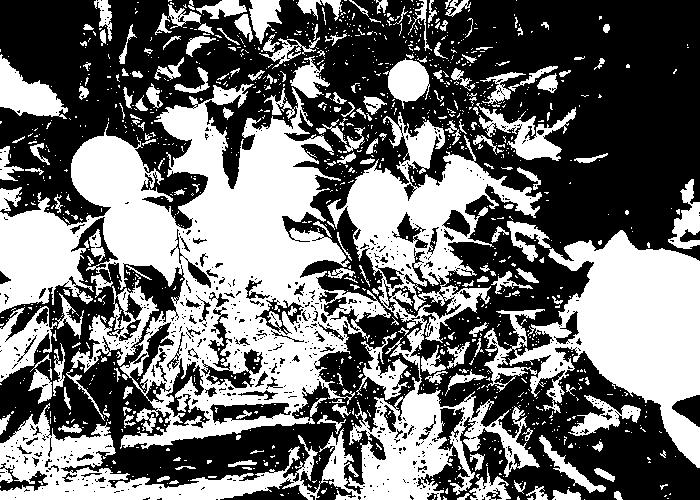
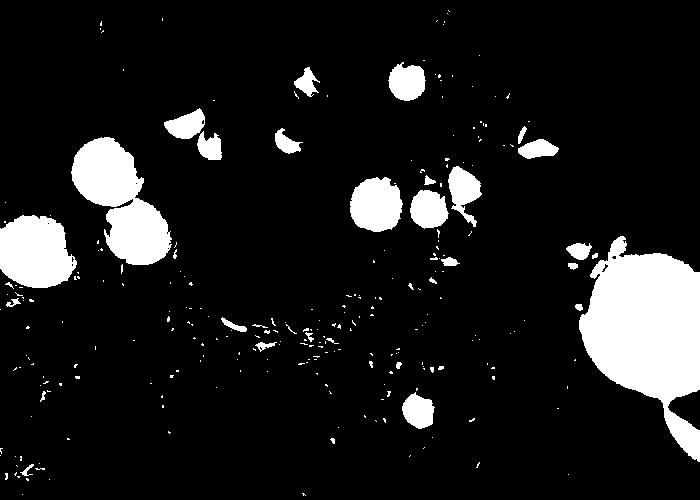
Aprimoramento Threshold
Foi feito um aprimoramento do Threshold destacando as laranjas com a cor branca

diff --git a/src/br/com/pdi/vision/BasicThreshold.java b/src/br/com/pdi/vision/BasicThreshold.java
@@ -11,7 +11,7 @@ public class BasicThreshold {
 
 	BufferedImage image;
 	int width, height, red, green, blue, gray;
-	int threshold = 57;
+	int threshold = 94;
 	
 	public void run() throws IOException {
 		File input = new File("D:\\Users\\nirto\\Documents\\GitHub\\"+
@@ -24,10 +24,10 @@ public class BasicThreshold {
 			for (int j = 0; j < width; j++) {
 				Color pixel = new Color(image.getRGB(j, i));
 				
-				red = pixel.getRed();
+				red = pixel.darker().getRed();
 				green = pixel.darker().darker().darker().getGreen();
-				//blue = pixel.darker().getBlue();
-				gray = (red + green)/3;
+				blue = pixel.getBlue();
+				gray = ((red*3) + (green/4)-(blue*2))/3;
 				if(gray > threshold) {
 					image.setRGB(j, i, Color.WHITE.getRGB());
 				}else {
@@ -38,7 +38,7 @@ public class BasicThreshold {
 		}
 		
 		File output = new File("D:\\Users\\nirto\\Documents\\GitHub\\"+
-							  "PDI\\pdi-atv-1\\src\\images\\image1_bw.jpg");
+							  "PDI\\pdi-atv-1\\src\\images\\image1_bw2.jpg");
 		ImageIO.write(image, "jpg", output);
 		
 		System.out.println("Done!");
